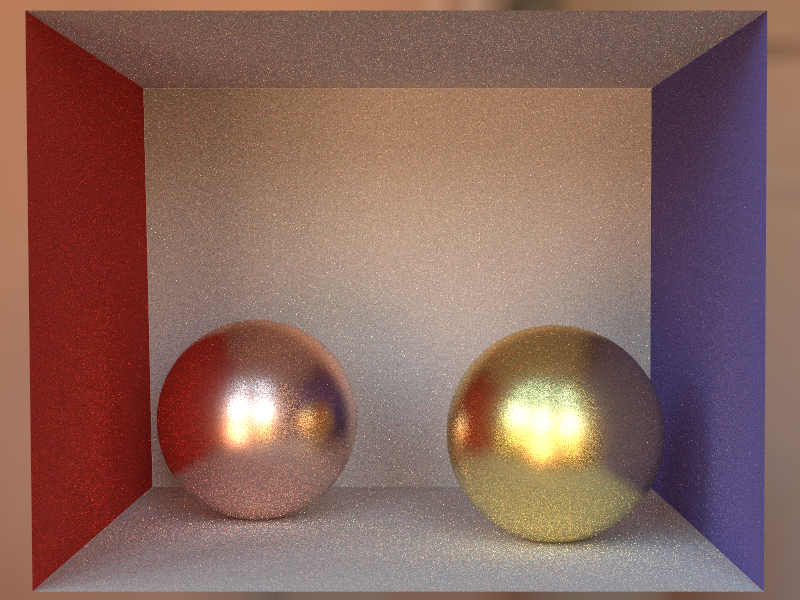
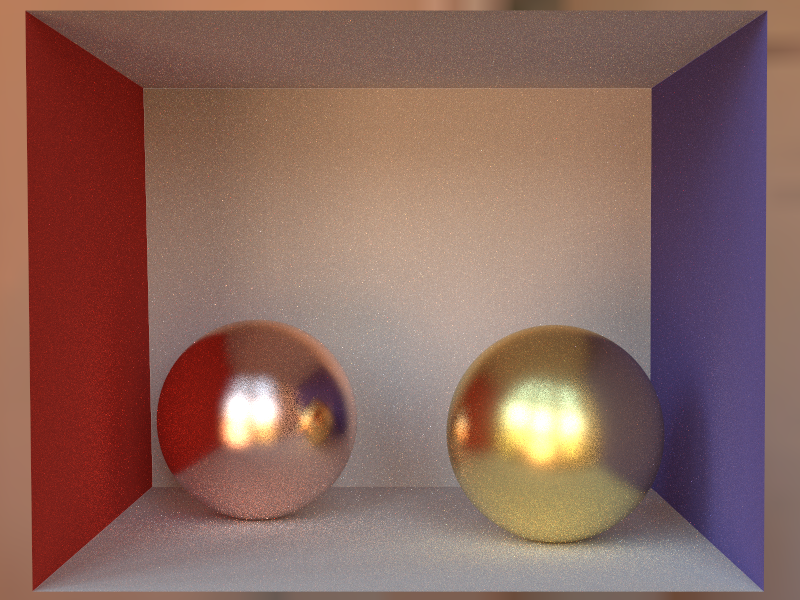
volume rendering preparation

diff --git a/Radiantium.Offline/Integrators/PathTracer.cs b/Radiantium.Offline/Integrators/PathTracer.cs
@@ -13,6 +13,7 @@ namespace Radiantium.Offline.Integrators
         Mis
     }
 
+    //TODO: NEE and MIS impl more light sampling methods
     public class PathTracer : Integrator
     {
         public int MaxDepth { get; }
@@ -155,15 +156,9 @@ namespace Radiantium.Offline.Integrators
                 {
                     return new Color3F(0);
                 }
-                Vector3 toLight = p - inct.P;
-                if (toLight.Length() < 0.001f)
+                if (scene.IsOccluded(inct.P, p))
                 {
-                    return new Color3F(0);
-                }
-                Ray3F shadowRay = new Ray3F(inct.P, wi, 0.001f, toLight.Length() - 0.001f);
-                if (scene.Intersect(shadowRay)) //maybe occluded by primitive which only has medium ?
-                {
-                    return new Color3F(0);
+                    return new Color3F(0.0f);
                 }
                 Color3F fr = inct.Surface.Fr(inct.ToLocal(wo), inct.ToLocal(wi), inct);
                 return fr * li * Coordinate.AbsCosTheta(inct.ToLocal(wi)) / pdf;
@@ -261,21 +256,16 @@ namespace Radiantium.Offline.Integrators
                     if (fr != Color3F.Black)
                     {
                         fr *= Coordinate.AbsCosTheta(inct.ToLocal(lightWi));
-                        Vector3 toLight = lightP - inct.P;
-                        if (toLight.Length() >= 0.001f)
+                        if (!scene.IsOccluded(inct.P, lightP))
                         {
-                            Ray3F shadowRay = new Ray3F(inct.P, lightWi, 0.001f, toLight.Length() - 0.001f);
-                            if (!scene.Intersect(shadowRay))
+                            if (light.IsDelta)
                             {
-                                if (light.IsDelta)
-                                {
-                                    le += fr * lightLi / lightPdf;
-                                }
-                                else
-                                {
-                                    float weight = PowerHeuristic(1, lightPdf, 1, scatteringPdf);
-                                    le += fr * lightLi * weight / lightPdf;
-                                }
+                                le += fr * lightLi / lightPdf;
+                            }
+                            else
+                            {
+                                float weight = PowerHeuristic(1, lightPdf, 1, scatteringPdf);
+                                le += fr * lightLi * weight / lightPdf;
                             }
                         }
                     }

diff --git a/Radiantium.Offline/Mediums/Homogeneous.cs b/Radiantium.Offline/Mediums/Homogeneous.cs
@@ -1,4 +1,6 @@
 using Radiantium.Core;
+using System.Numerics;
+using static System.MathF;
 
 namespace Radiantium.Offline.Mediums
 {
@@ -13,7 +15,52 @@ namespace Radiantium.Offline.Mediums
         {
             SigmaA = sigmaA;
             SigmaS = sigmaS;
+            SigmaT = sigmaA + sigmaS;
             G = g;
+        }
+
+        public override Color3F Tr(Ray3F ray, Random rand)
+        {
+            Color3F tr = -SigmaT * Min(ray.MaxT, float.MaxValue);
+            return new Color3F(Exp(tr.R), Exp(tr.G), Exp(tr.B));
+        }
+
+        public override MediumSampleResult Sample(Ray3F ray, Random rand)
+        {
+            int channel = rand.Next(3);
+            if (channel < 0 || channel >= 3) { throw new Exception(); }
+            Color3F sigmaT = SigmaT;
+            float dist = -Log(1 - rand.NextFloat()) / Color3F.IndexerUnsafe(ref sigmaT, channel);
+            float t = Min(dist, ray.MaxT);
+            Color3F tr = -SigmaT * Min(t, float.MaxValue);
+            tr = new Color3F(Exp(tr.R), Exp(tr.G), Exp(tr.B));
+            bool isSampleMedium = t < ray.MaxT;
+            if (isSampleMedium)
+            {
+                Color3F density = sigmaT * tr;
+                float pdf = (density.R + density.G + density.B) / 3;
+                if (pdf == 0) { pdf = 1; }
+                Color3F resultTr = tr * SigmaS / pdf;
+                Vector3 p = ray.At(t);
+                Vector3 wo = -ray.D;
+                return new MediumSampleResult(p, wo, resultTr, t);
+            }
+            else
+            {
+                float pdf = (tr.R + tr.G + tr.B) / 3;
+                if (pdf == 0) { pdf = 1; }
+                return new MediumSampleResult(tr / pdf);
+            }
+        }
+
+        public override float P(Vector3 wo, Vector3 wi)
+        {
+            return new HenyeyGreenstein(G).P(wo, wi);
+        }
+
+        public override PhaseFunctionSampleResult SampleWi(Vector3 wo, Random rand)
+        {
+            return new HenyeyGreenstein(G).SampleWi(wo, rand);
         }
     }
 }

diff --git a/Radiantium.Offline/IPhaseFunction.cs b/Radiantium.Offline/IPhaseFunction.cs
@@ -1,0 +1,68 @@
+using System.Numerics;
+using static Radiantium.Core.MathExt;
+using static System.Numerics.Vector3;
+using static System.MathF;
+
+namespace Radiantium.Offline
+{
+    public struct PhaseFunctionSampleResult
+    {
+        public float P;
+        public Vector3 Wi;
+
+        public PhaseFunctionSampleResult(float p, Vector3 wi)
+        {
+            P = p;
+            Wi = wi;
+        }
+    }
+
+    public interface IPhaseFunction
+    {
+        float P(Vector3 wo, Vector3 wi);
+
+        PhaseFunctionSampleResult SampleWi(Vector3 wo, Random rand);
+    }
+
+    public static class PhaseFunctionUtility
+    {
+        public static float HenyeyGreenstein(float cosTheta, float g)
+        {
+            float denom = 1 + g * g + 2 * g * cosTheta;
+            return (1 / 4 * PI) * (1 - g * g) / (denom * Sqrt(denom));
+        }
+    }
+
+    public struct HenyeyGreenstein : IPhaseFunction
+    {
+        public float G;
+
+        public HenyeyGreenstein(float g) { G = g; }
+
+        public float P(Vector3 wo, Vector3 wi)
+        {
+            return PhaseFunctionUtility.HenyeyGreenstein(Dot(wo, wi), G);
+        }
+
+        public PhaseFunctionSampleResult SampleWi(Vector3 wo, Random rand)
+        {
+            Vector2 rng = rand.NextVec2();
+            float cosTheta;
+            if (Abs(G) < 0.001f)
+            {
+                cosTheta = 1 - 2 * rng.X;
+            }
+            else
+            {
+                float sqrTerm = (1 - G * G) / (1 + G - 2 * G * rng.X);
+                cosTheta = -(1 + G * G - sqrTerm * sqrTerm) / (2 * G);
+            }
+            float sinTheta = Sqrt(Max(0, 1 - cosTheta * cosTheta));
+            float phi = 2 * PI * rng.Y;
+            Coordinate coord = new Coordinate(wo);
+            Vector3 wi = SphericalDirection(sinTheta, cosTheta, phi, coord.X, coord.Y, coord.Z);
+            float p = PhaseFunctionUtility.HenyeyGreenstein(cosTheta, G);
+            return new PhaseFunctionSampleResult(p, wi);
+        }
+    }
+}

diff --git a/Radiantium.Offline/Scene.cs b/Radiantium.Offline/Scene.cs
@@ -1,4 +1,5 @@
 using Radiantium.Core;
+using System.Numerics;
 
 namespace Radiantium.Offline
 {
@@ -51,6 +52,51 @@ namespace Radiantium.Offline
             light = Lights[rand.Next(Lights.Length)];
             float pdf = 1.0f / Lights.Length;
             return pdf;
+        }
+
+        public bool IsOccluded(Vector3 from, Vector3 to)
+        {
+            Vector3 vec = to - from;
+            float dis = vec.Length();
+            if (dis < 0.001f) // two points too close
+            {
+                return true;
+            }
+            Vector3 dir = Vector3.Normalize(vec);
+            Ray3F shadowRay = new Ray3F(from, dir, 0.001f, dis - 0.001f);
+            return Intersect(shadowRay);
+        }
+
+        public Color3F Transmittance(Vector3 from, Vector3 to, Medium? rayEnv, Random rand)
+        {
+            Color3F tr = new Color3F(1.0f);
+            Vector3 vec = to - from;
+            while (true)
+            {
+                float dis = vec.Length();
+                if (dis < 0.001f)
+                {
+                    break;
+                }
+                Vector3 dir = Vector3.Normalize(vec);
+                Ray3F ray = new Ray3F(from, dir, 0.001f, dis - 0.001f);
+                bool anyHit = Intersect(ray, out Intersection inct);
+                if (anyHit && inct.HasSurface)
+                {
+                    return new Color3F(0.0f);
+                }
+                if (rayEnv != null)
+                {
+                    tr *= rayEnv.Tr(ray, rand);
+                }
+                if (!anyHit)
+                {
+                    break;
+                }
+                vec = to - inct.P;
+                rayEnv = inct.GetMedium(dir);
+            }
+            return tr;
         }
     }
 }

diff --git a/Radiantium.Offline/Medium.cs b/Radiantium.Offline/Medium.cs
@@ -1,4 +1,7 @@
-namespace Radiantium.Offline
+using Radiantium.Core;
+using System.Numerics;
+
+namespace Radiantium.Offline
 {
     public class MediumAdapter
     {
@@ -18,7 +21,38 @@
         public MediumAdapter(Medium? same) : this(same, same) { }
     }
 
-    public class Medium
+    public struct MediumSampleResult
     {
+        public Vector3 P;
+        public Vector3 Wo;
+        public Color3F Tr;
+        public float T;
+        public bool IsSampleMedium;
+
+        public MediumSampleResult(Color3F tr)
+        {
+            Tr = tr;
+            IsSampleMedium = false;
+            P = default;
+            Wo = default;
+            T = default;
+        }
+
+        public MediumSampleResult(Vector3 p, Vector3 wo, Color3F tr, float t)
+        {
+            P = p;
+            Wo = wo;
+            Tr = tr;
+            T = t;
+            IsSampleMedium = true;
+        }
+    }
+
+    public abstract class Medium : IPhaseFunction
+    {
+        public abstract Color3F Tr(Ray3F ray, Random rand);
+        public abstract MediumSampleResult Sample(Ray3F ray, Random rand);
+        public abstract float P(Vector3 wo, Vector3 wi);
+        public abstract PhaseFunctionSampleResult SampleWi(Vector3 wo, Random rand);
     }
 }

diff --git a/Radiantium.Offline/Shapes/Sphere.cs b/Radiantium.Offline/Shapes/Sphere.cs
@@ -32,7 +32,7 @@ namespace Radiantium.Offline.Shapes
             float t = surface.T;
             ray = Ray3F.Transform(ray, WorldToModel);
             Vector3 p = ray.At(t);
-            Vector3 n = Normalize(p); //it works. why?
+            Vector3 n = Normalize(p);
             Coordinate coord = new Coordinate(n);
 
             float theta = Acos(-n.Y);

diff --git a/README.md b/README.md
@@ -17,7 +17,7 @@ path 8192 spp
 
 <img src="Gallery/test_rough_metal.png"  />
 
-path 256spp
+path 1024spp
 
 (copper and gold!)
 
